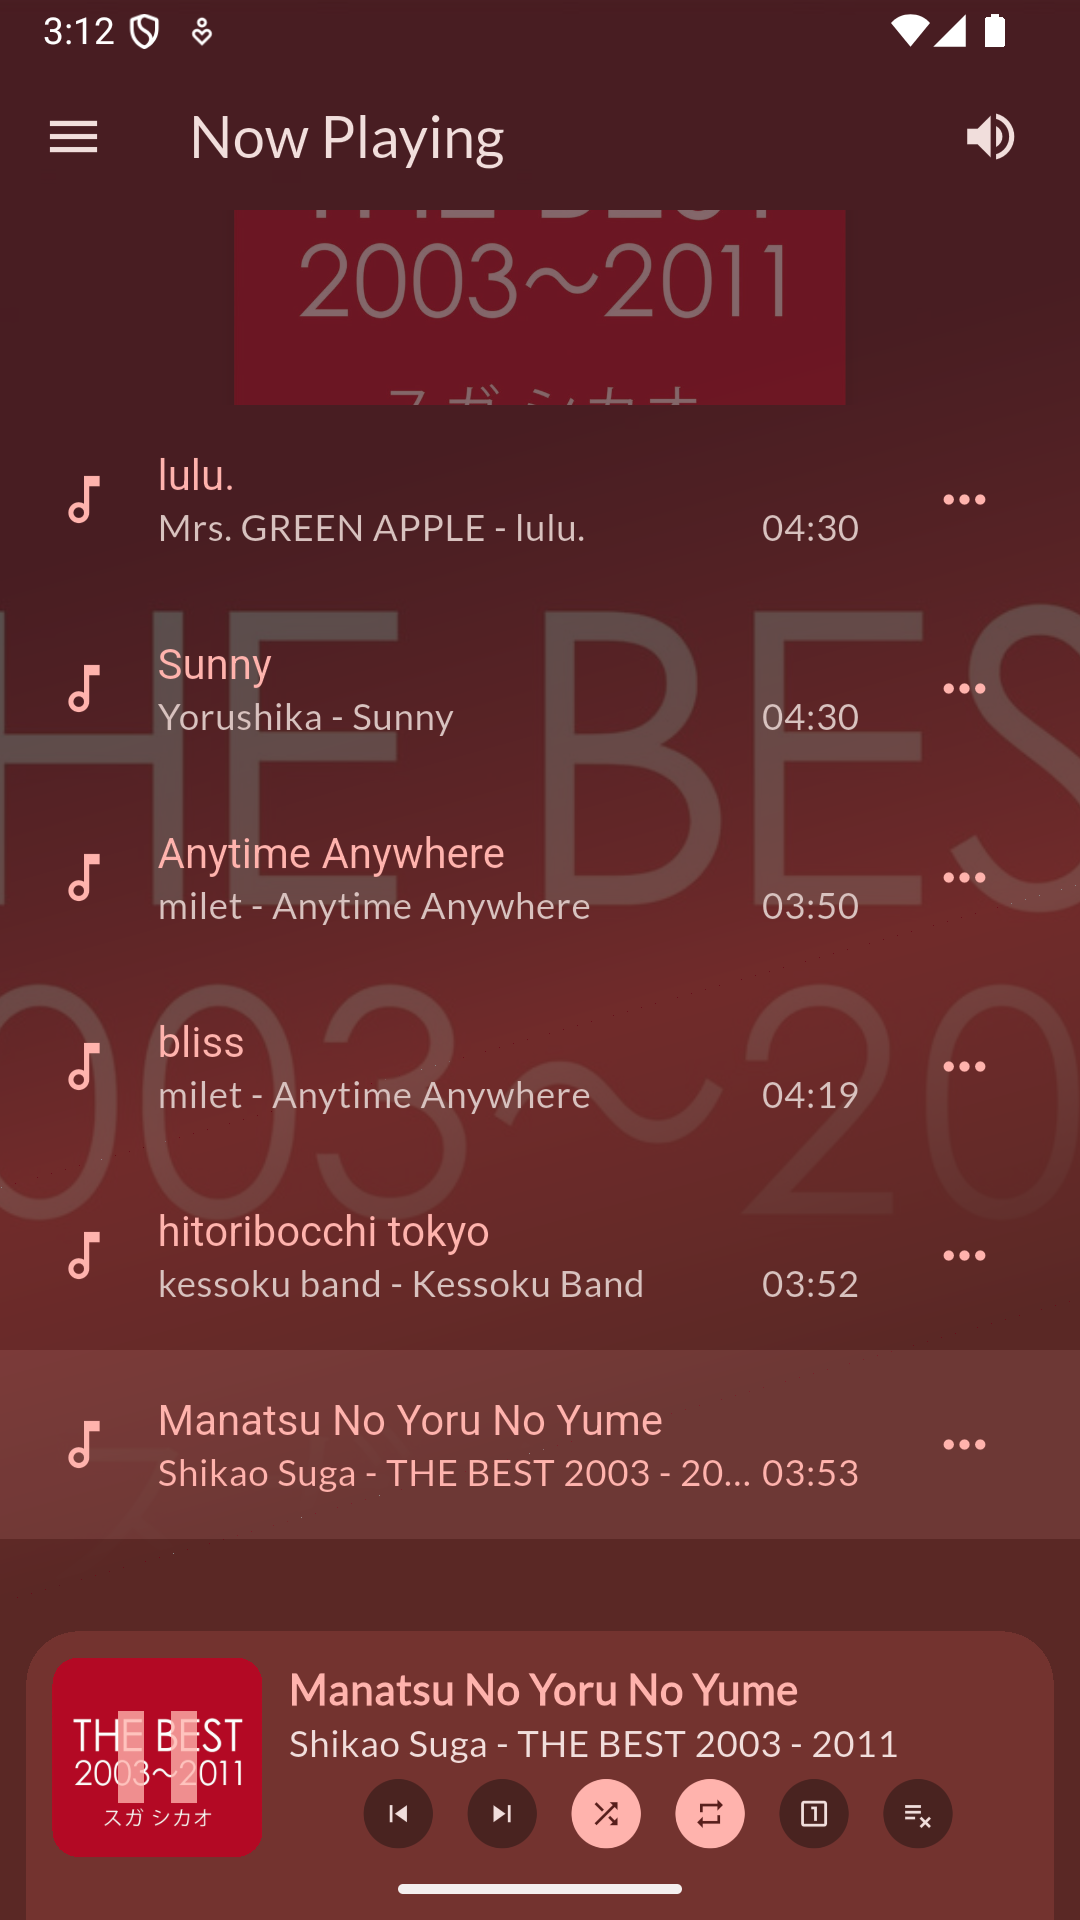
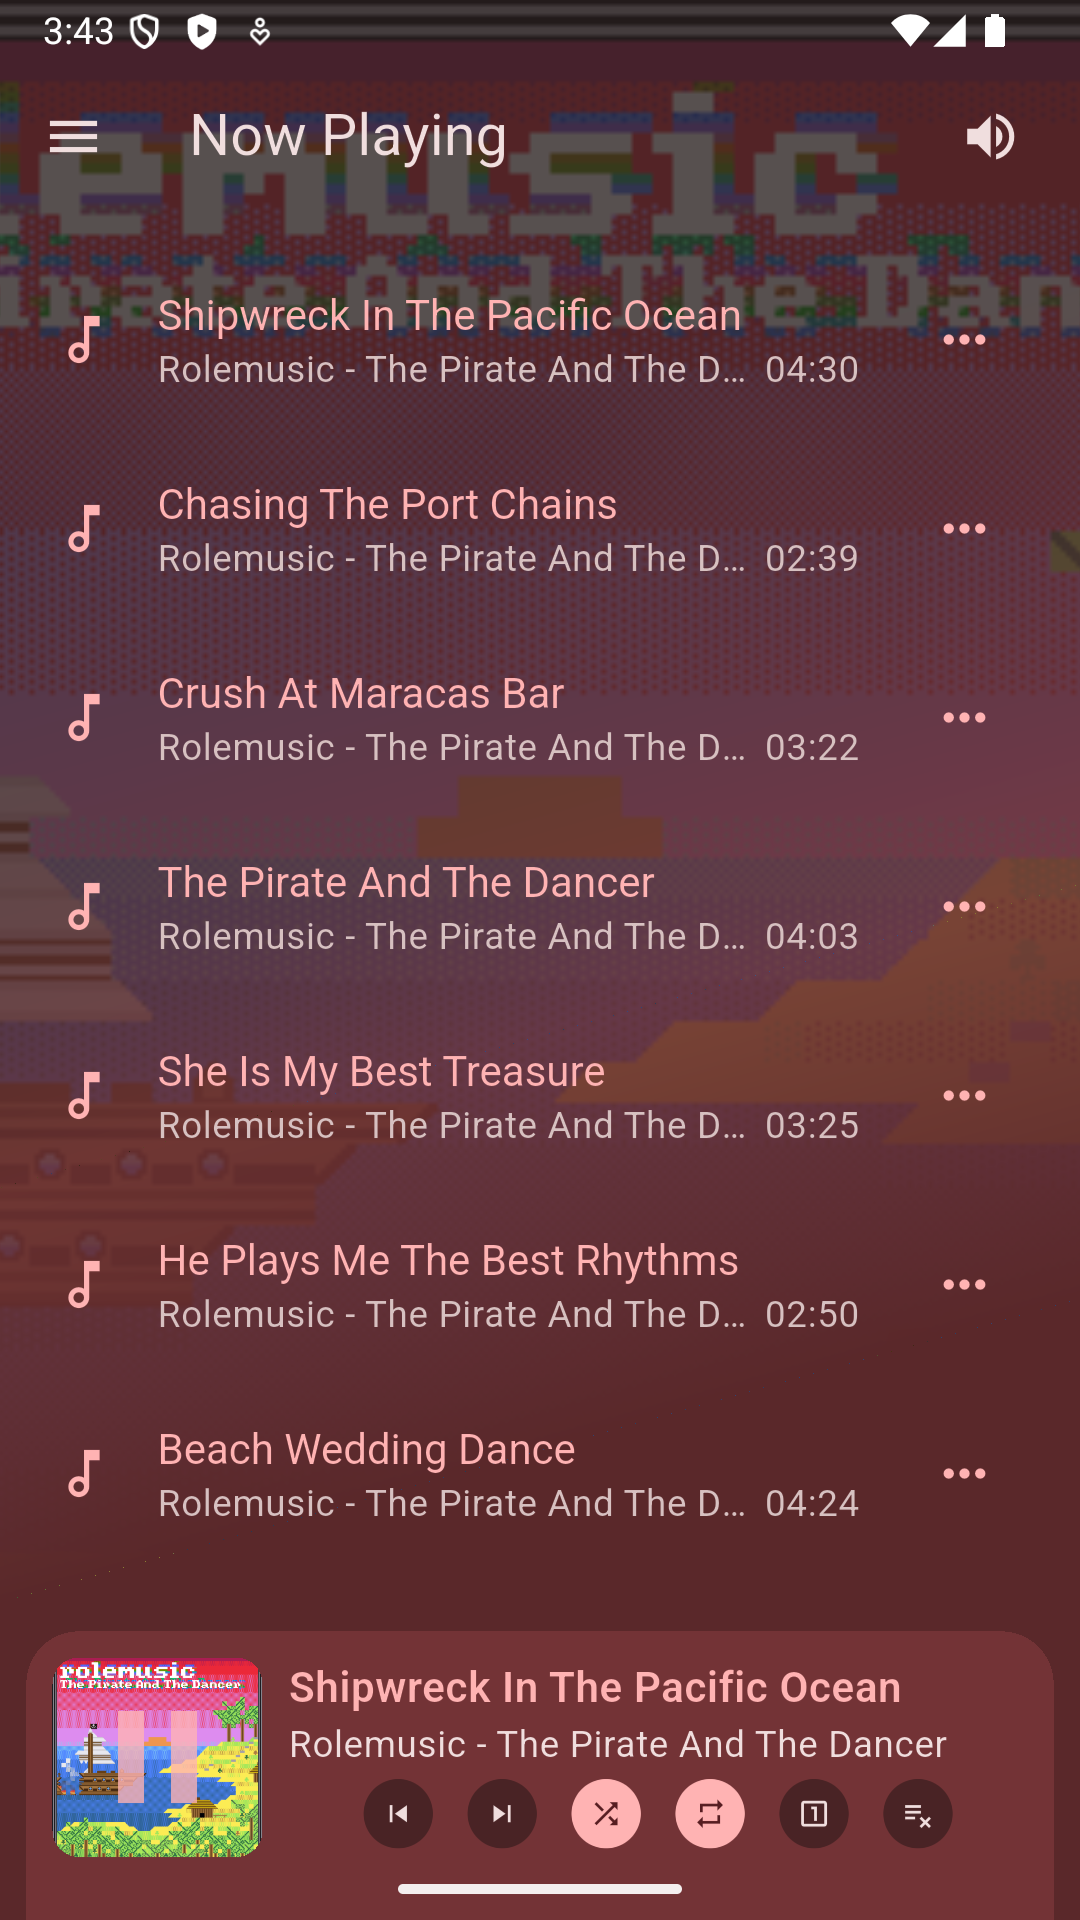
change screenshot to CC music

diff --git a/README.md b/README.md
@@ -26,6 +26,20 @@ MPD Remote is an open-source client for [Music Player Daemon (MPD)](https://www.
   <img src="fastlane/metadata/android/en-US/images/phoneScreenshots/6.png" alt="Screenshot 6" width="200">
 </p>
 
+### Screenshot credits
+
+The album art shown in the screenshots above is used under the [Creative Commons](https://creativecommons.org/licenses/) license. Credit goes to the following artists, via the [Free Music Archive](https://freemusicarchive.org/):
+
+**Rolemusic**
+- [The Pirate and The Dancer](https://freemusicarchive.org/music/Rolemusic/The_Pirate_And_The_Dancer)
+- [The Black Dot](https://freemusicarchive.org/music/Rolemusic/The_Black_Dot)
+
+**Alex Morgan**
+- [Horror & Dark Tension](https://freemusicarchive.org/music/alex-morgan/horror-dark-tension)
+- [Lofi Study Beats](https://freemusicarchive.org/music/alex-morgan/lofi-study-beats)
+- [Phonk & Drift](https://freemusicarchive.org/music/alex-morgan/phonk-drift)
+- [Trap & Hip-Hop Beats](https://freemusicarchive.org/music/alex-morgan/trap-hip-hop-beats)
+
 ## Features
 
 - Connect to an MPD server over the network
